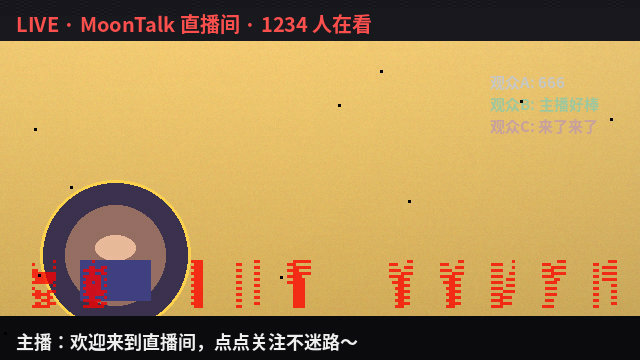
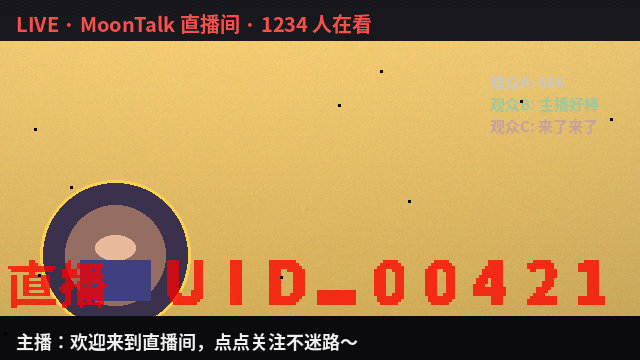
feat: v0.1.15 点阵判定升级为成对对照信号（dot_contrast）
- dot_contrast = 目标点位命中率 - 对照点位命中率（ref_seed 派生同密度对照点），
  同一图上同阈值统计，自动扣除原图暗区/纹理干扰
- 修复暗色原图假阳性：纯黑/深纹理未嵌入图此前 verify=true、trace 误锁，
  现 contrast=0、verify=false、trace=-1
- trace_dots 新增歧义防护：最高-次高 < margin(0.15) 返回 -2 不误锁；
  verify_dots 默认阈值 0.5 -> 0.4（JPEG q85 后 contrast≈0.5 留余量）
- 抽公共 count_hits / dot_points_with_seed（embed/extract/contrast 共用）
- 同步 e2e/gen_demo/CLI 输出与 3 个新回归测试（109 全过）
- README 更新溯源判定说明与点阵适用边界

Changed region(s): [[0.25, 0.7028, 0.9688, 0.8556], [0.0, 0.7028, 0.1875, 0.8556]]

diff --git a/README.md b/README.md
@@ -24,10 +24,11 @@ MoonBit 图像水印算法库：**可见水印**（文本 / 随机点阵 / Logo 
 
 | API | 说明 |
 | --- | --- |
-| `extract_dots` | 用同一 `DotConfig` 复现点位置，统计深色命中率（0.0~1.0） |
-| `verify_dots` | 命中率 ≥ 阈值（默认 0.9）判定水印存在 |
+| `extract_dots` | 用同一 `DotConfig` 复现点位置，统计深色命中率（0.0~1.0）；**注意这是绝对命中率**，暗色调原图天然偏高，严谨判别请用 `dot_contrast` / `verify_dots` |
+| `dot_contrast` | **成对对照信号**：目标点位命中率 − 对照点位命中率。对照点位由 seed 确定性派生（同密度、未画点处），同一张图上两侧用同一亮度阈值统计 → 原图暗区/纹理的系统性偏差被自动扣除。未嵌入图 contrast≈0（暗图不再假阳性）；已嵌入图 contrast 显著 >0（v0.1.15） |
+| `verify_dots` | `dot_contrast` ≥ 阈值（默认 0.4）判定水印存在；未嵌入亮图/暗图均判 false，嵌入后判 true（v0.1.15 起由"绝对命中率 ≥0.9"升级） |
 | `verify_invisible` | LSB 水印 magic 校验 |
-| `trace_dots` | 对候选 `DotConfig` 数组溯源：返回命中率最高者索引（≥ 阈值）；分发场景为每个接收者分配独立 seed，泄漏即锁定接收者 |
+| `trace_dots` | 对候选 `DotConfig` 数组逐一算 `dot_contrast`，返回信号最强且与次强差距 ≥ margin（默认 0.15）的候选索引；**-1=无信号达标，-2=候选歧义不误锁**，≥0=唯一锁定。分发场景为每个接收者分配独立 seed，泄漏即锁定接收者（v0.1.15） |
 | `extract_dct` | DCT 水印 magic "MD" + 长度校验；JPEG/PNG 往返均可提取；`delta` 可选参数须与嵌入侧一致 |
 | `detect_lsb` / `detect_dct` | **盲检测**：不依赖 key/delta，仅读帧头 magic + 长度合理性判断"是否被标记"——溯源第一问（拿到疑似泄漏帧先判断，再决定深入提取）；注意带 key 混淆的 LSB 帧无 key 检不出（文档化语义） |
 | `RgbaImage::lsb_capacity` / `dct_capacity` | 查询各通道可用 payload 容量（字节，扣除帧头），嵌入前规划"这条 payload 走 LSB 还是 DCT" |
@@ -112,7 +113,8 @@ let marked = match img.embed_all(opts) {
 // 3. 盲检测 → 提取验证（溯源链路：先 detect 再 extract）
 if @lib.detect_lsb(marked) { println("marked ✓") }
 let back = @lib.decode_png(marked.encode_png().unwrap_or(Bytes::new())).unwrap_or(img)
-let rate = @lib.extract_dots(back, dcfg)   // ≥0.9 判定点阵水印存在
+let contrast = @lib.dot_contrast(back, dcfg)   // 成对对照信号：目标命中率 − 对照命中率
+let ok = @lib.verify_dots(back, dcfg)          // ≥0.4 判定点阵水印存在（v0.1.15）
 ```
 
 ## 命令行工具（文件模式 CLI）
@@ -127,7 +129,7 @@ moon run cmd/main -- embed in.png out.png --text "LIVE 2026-10-03" --font cjk16 
 moon run cmd/main -- embed in.jpg out.jpg --dct "UID-001" --delta 48
 
 # 验证
-moon run cmd/main -- verify-dots out.png            # 点阵命中率
+moon run cmd/main -- verify-dots out.png            # 点阵成对对照信号 + 判定（contrast / verify）
 moon run cmd/main -- verify-lsb out.png --key 42    # LSB 提取（key 必须与嵌入一致）
 moon run cmd/main -- verify-dct out.png --delta 48  # DCT 提取（delta 必须与嵌入一致）
 
@@ -166,14 +168,14 @@ moon run cmd/e2e                 # 默认用 assets/live_frame.png
 moon run cmd/e2e -- your.png     # 任意图片跑同一链路
 ```
 
-链路与实测输出（`moon run cmd/e2e`，v0.1.10）：
+链路与实测输出（`moon run cmd/e2e`，v0.1.15）：
 
 1. **贴片三件套嵌入**：可见文本 `直播 UID-00421`（中下部字幕条上方，防盗播震慑；**cjk16 混合文本**——中文+英文+数字一条水印完整渲染，v0.1.10；v0.1.11 起 48px 字号完整落在画布内）+ 点阵 `seed=421`（观众 ID，溯源用）+ DCT `UID-00421`（抗平台转码的取证载体）；
 2. **模拟平台转码**：`encode_jpeg(85)`（平台切片/分发必经的 JPEG 重压链路）→ 读回；
-3. **溯源验证**：
-   - `extract_dots` 命中率 `1` → PASS（点阵在 JPEG q85 后完整保留）；
+3. **溯源验证**（v0.1.15 起点阵判定升级为成对对照）：
+   - `dot_contrast` `0.5` + `verify_dots` → PASS（JPEG q85 后水印信号仍高于同图对照点位，原图暗区干扰已被扣除）；
    - `extract_dct` 提取 UID `UID-00421` → 定位观众 421（DCT 域水印在亮度域嵌入，与 JPEG 量化域一致，转码后仍可提取）；
-   - `trace_dots` 对候选 [seed 1, 2, 421] 溯源 → 命中索引 2 → **锁定观众 C**。
+   - `trace_dots` 对候选 [seed 1, 2, 421] 溯源 → 唯一命中索引 2 → **锁定观众 C**（信号最高且与次高差距 ≥ margin，无歧义不误锁）。
 
 ![原图 → 水印图（E2E 产物）](assets/live_frame.png) → ![贴片水印后](docs/demo/e2e_watermarked.png)
 
@@ -222,6 +224,8 @@ moon run cmd/bench -- 640 360 # 指定尺寸
 
 - **颜色打包**：`0xRRGGBBAA`。MoonBit `Int` 为 32 位有符号，`0xFFFF_FFFF` 等高位字面量会表示为负数——位运算完全等价，无需担心；推荐用 `(r << 16) | (g << 8) | b | (a << 24)` 构造颜色。
 - **确定性**：点阵水印完全由 `DotConfig`（含 seed）决定，这是提取与溯源的基础。
+- **成对对照判定（v0.1.15）**：验证与溯源不再用"绝对命中率"（暗色调原图天然偏高会假阳性），而是 `dot_contrast = 目标点位命中率 − 对照点位命中率`。对照点位由 `seed ^ 0x9E3779B97F4A7C15` 派生（同密度、未画点处），同一图上两侧同阈值统计 → 原图暗区/纹理干扰被自动扣除。`trace_dots` 要求信号最高且与次高差距 ≥ margin（默认 0.15）才锁定，否则返回 `-2`（候选歧义，不误锁）。
+- **点阵适用边界（如实说明）**：点阵是**亮度对比**通道——原图背景暗像素占比不宜过高（约 >60%），否则嵌入的深色点与背景对比不足、contrast 偏低（如整图纯暗，深色点不可分辨）。面向有内容的画面（直播、商品图、文档截图）；**暗色画面请改走 DCT/LSB 通道**（DCT 抗 JPEG，e2e 正是一起嵌入、互为兜底）。
 - **归一化网格**：点阵落点按比例坐标（单元 = 图宽 8%），点坐标对齐偶数像素，因此缩放后仍可提取；代价是纯裁剪会因参考尺寸改变而错位（见鲁棒性矩阵）。
 - **PNG 无损往返**：PNG 编码/解码不损失 LSB 信息，是不可见水印的可靠载体（见鲁棒性矩阵）。
 - **DCT 域设计**：**亮度域（BT.601 Y=0.299R+0.587G+0.114B）** 8×8 分块 DCT-II + 中频系数 (4,1) QIM 量化嵌入，`delta` 默认 24（越大越抗 JPEG、可见性略升）。亮度域与 JPEG 编码的 Y 分量一致，DCT 系数才能经受色度量化往返（在 G 通道嵌入会被 YCbCr 色度量化破坏——v0.1.7 起改为亮度域）。注意：**纯白/纯黑等饱和区域**的正扰动会被像素 clamp 截断（系数跌到 Δ/2 边界），鲁棒性弱——真实图像纹理区不受影响；若已知图片大面积饱和，调大 `delta` 或改用 LSB。
@@ -240,7 +244,8 @@ moon run cmd/bench -- 640 360 # 指定尺寸
 
 ## 状态
 
-- **当前**：**v0.1.14 已发布**（ mooncakes，https://mooncakes.io/docs/yuzhiblue/moon-watermark ）：本轮全项目代码审查修复——**修复 Cjk16 中文渲染错位**（渲染循环按每行字节数通用化，此前 16×16 中文/宽字形左半恒空、右半错位，"啊/防"等汉字首次正确显示）；旋转方向文档统一为顺时针（与实现一致）；DCT `delta<=0` 拒绝（此前静默产生无法提取的水印并改坏像素）；LSB/DCT payload >65535 拒绝（2 字节长度字段防静默截断）；点阵 `density` clamp 到 [0,1]；DCT 余弦表预计算（消除每块上万次 `math.cos` 调用）。106 测试全过，`moon check --deny-warn` 零警告。
+- **当前**：**v0.1.15 已发布**（mooncakes，https://mooncakes.io/docs/yuzhiblue/moon-watermark）：点阵判定从"绝对命中率"升级为**成对对照信号**（`dot_contrast` = 目标点位命中率 − 对照点位命中率）——对照点位由 seed 确定性派生（同密度、未画点处），同一图上同阈值统计，原图暗区/纹理干扰被自动扣除。**修复暗色原图假阳性**（纯黑/深纹理未嵌入图此前 verify=true、trace 误锁，现 contrast=0、verify=false）；`trace_dots` 新增歧义防护（信号最高但与次高差距 < margin 返回 `-2`，不误锁）；`verify_dots` 默认阈值 0.4、`trace_dots` 新增 margin 参数。同步升级 e2e/gen_demo/CLI 输出与回归测试（109 测试全过），并如实文档化点阵适用边界（整图过暗时点阵信号不可分辨，暗色画面走 DCT/LSB 通道兜底）。
+- **v0.1.14**：全项目代码审查修复——**修复 Cjk16 中文渲染错位**（渲染循环按每行字节数通用化，此前 16×16 中文/宽字形左半恒空、右半错位，"啊/防"等汉字首次正确显示）；旋转方向文档统一为顺时针（与实现一致）；DCT `delta<=0` 拒绝（此前静默产生无法提取的水印并改坏像素）；LSB/DCT payload >65535 拒绝（2 字节长度字段防静默截断）；点阵 `density` clamp 到 [0,1]；DCT 余弦表预计算（消除每块上万次 `math.cos` 调用）。106 测试全过，`moon check --deny-warn` 零警告。
 - **v0.1.13**：工具链兼容与依赖修复——适配新版 moonc（`Int` → `Int32`、`moon fmt` 规范）；移除多余依赖 `mizchi/json`；显式声明 `moonbitlang/async@0.22.4`，覆盖传递依赖的旧格式 `async@0.16.6`，使新版工具链下 CI 恢复全绿。
 - **v0.1.12**：代码审查修复轮——`embed_text` 除零防护（`font_size=0` + 超宽 + auto_shrink 不再崩溃）、CLI 文本水印失败显式警告、`TextConfig::with_font` 新增可选 `angle`（库外可设 45° 斜向水印）、LSB/DCT 重复逻辑合并（`lsb_shift` / `default_delta` / `block_origin` / `map_from_pairs`）、`RgbaImage::new` 字节填充提速；附带 Noto CJK（SIL OFL 1.1）许可全文与归属声明。
 
